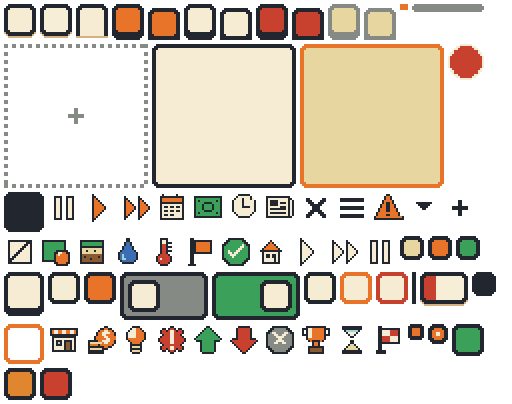
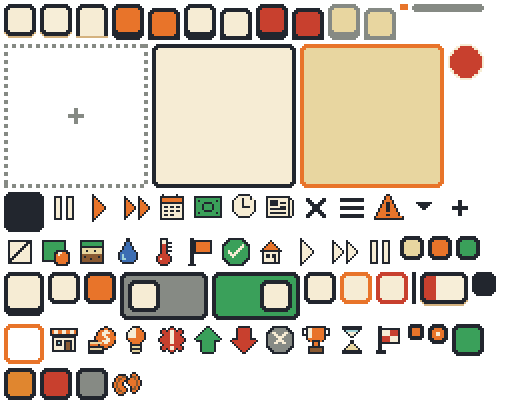
art: Bankrupt win/loss card and no Keep playing (#289)

Changed region(s): [[0.125, 0.8911, 0.2812, 1.0]]

diff --git a/art/tools/ui_views.py b/art/tools/ui_views.py
@@ -12,7 +12,8 @@ writes docs/art/m2-views-preview.png.
   value tip in `card_float`.
 - #178 win/loss card: one `card` layout; the headline band `end_band_<outcome>` and emblem `icon_end_<outcome>`
   (shown at 2x, 32 pt) change per outcome. Goal rows use `icon_goal` and `icon_goal_miss`.
-  New game is `btn_primary`; Keep playing is an optional `btn_secondary` the client can hide."""
+  New game is `btn_primary` and is the only button (#243). Bankrupt (#289) uses a grey band and a cracked
+  coin; its score row can be hidden (#287)."""
 
 import json
 import math
@@ -201,11 +202,30 @@ VIEW_ICON = {  # 16x16, same keys as ui_concept.ICON plus 'm' = MGREY
         "..#####.........",
         "................",
     ],
+    "end_bankrupt": [
+        "................",
+        "................",
+        "..........##....",
+        "...####..#oo#...",
+        "..#oonn#.#nno#..",
+        ".#onnoo##oono#..",
+        ".#onoo##oooono#.",
+        "#onoo#.#oooono#.",
+        "#onoo#..#ooono#.",
+        "#onooo#..#ono#..",
+        ".#onooo#.#nno#..",
+        ".#onnoo#.#oo#...",
+        "..#oon#...##....",
+        "...###..........",
+        "................",
+        "................",
+    ],
 }
 OUTCOMES = {  # result_name: (key, band colour, headline)
     "VICTORY": ("win", "GREEN", "Goals achieved"),
     "DEFEAT_DEADLINE": ("time", "AMBER", "Out of time"),
     "DEFEAT_AI_WON": ("rival", "RED", "A rival got there first"),
+    "DEFEAT_BANKRUPT": ("bankrupt", "MGREY", "Bankrupt"),
 }
 KEYS = dict(KEY, m="MGREY")
 
@@ -263,11 +283,13 @@ def frames():
     f["plate_level"] = (level_badge(), [4, 4, 4, 4])
     f["plate_pulse"] = (pulse_ring(), [6, 6, 6, 6])
     for k in VIEW_ICON:
-        f["icon_" + k] = (vicon(k), None)
+        if k != "end_bankrupt":  # added later (#289); appended below so earlier frames keep their place
+            f["icon_" + k] = (vicon(k), None)
     f["chart_dot"] = (dot(), None)
     f["chart_dot_sel"] = (dot(True), None)
     for k, col, _ in OUTCOMES.values():
         f["end_band_" + k] = (band(col), [6, 6, 6, 6])
+    f["icon_end_bankrupt"] = (vicon("end_bankrupt"), None)
     return f
 
 
@@ -302,7 +324,7 @@ def short(v):
 
 
 def preview(S=2):
-    W, H = 1180, 1180
+    W, H = 1180, 1130
     im = Image.new("RGBA", (W * S, H * S), rgb("DGREY"))
     d = ImageDraw.Draw(im)
     fr = {k: v for k, v in frames().items()}
@@ -467,7 +489,7 @@ def preview(S=2):
     head(
         20,
         y1,
-        "#178 Win/loss card: one layout, three outcomes; optional Keep playing shown hidden on the third",
+        "#178/#289 Win/loss card: one layout, four outcomes; New game only; score row hidden on Bankrupt",
     )
     goals = [
         ("Reach $50M net worth", True),
@@ -475,16 +497,17 @@ def preview(S=2):
         ("Market share 30% in Bread", None),
     ]
     for c, (res, (k, col, hl)) in enumerate(OUTCOMES.items()):
-        x, y, w, h = 20 + c * 386, y1 + 28, 370, 500
+        x, y, w, h = 20 + c * 290, y1 + 28, 280, 440
         put(nine(card(16, 16), [6, 6, 6, 7], w, h), x, y)
         put(nine(fr["end_band_" + k][0], [6, 6, 6, 6], w - 24, 96), x + 12, y + 12)
         put(fr["icon_end_" + k][0], x + w / 2 - 16, y + 22, 2)
         txt(x + w / 2, y + 80, hl, "CREAM", 17, True, "mm")
         stats = [
-            ("Final score", "8,420" if c == 0 else ("3,115" if c == 1 else "4,960")),
+            ("Final score", ["8,420", "3,115", "4,960", None][c]),
             ("Years played", "12" if c != 1 else "20"),
             ("Difficulty", "120"),
         ]
+        stats = [r for r in stats if r[1] is not None]  # score row is hideable
         for i, (a, b) in enumerate(stats):
             yy = y + 126 + i * 28
             txt(x + 24, yy, a, "MGREY", 12, False)
@@ -505,11 +528,8 @@ def preview(S=2):
             )
             txt(x + 48, yy, g, "INK" if met else "MGREY", 12, False)
         bw = w - 48
-        put(nine(button(16, 16, "primary"), [6, 6, 6, 8], bw, 46), x + 24, y + h - 130)
-        txt(x + w / 2, y + h - 107, "New game", "CREAM", 14, True, "mm")
-        if c != 2:
-            put(nine(button(16, 16, "secondary"), [6, 6, 6, 8], bw, 46), x + 24, y + h - 72)
-            txt(x + w / 2, y + h - 49, "Keep playing (optional)", "INK", 14, True, "mm")
+        put(nine(button(16, 16, "primary"), [6, 6, 6, 8], bw, 46), x + 24, y + h - 72)
+        txt(x + w / 2, y + h - 49, "New game", "CREAM", 14, True, "mm")
     im.convert("RGB").save(P("docs", "art", "m2-views-preview.png"), optimize=True)
 
 

diff --git a/art/README.md b/art/README.md
@@ -113,6 +113,8 @@ frames to `ui_atlas` (now 71 frames, earlier frames unchanged). Preview: `docs/a
 - **Charts (#178):** style in `art/charts.json`: one orange 2 pt line, sand grid, ink zero line when the
   range crosses 0, short money labels, `chart_dot` on the last point, `chart_dot_sel` and a `card_float`
   tip on the tapped point; a single point is a dot alone.
-- **Win/loss card (#178):** one `card` layout; `end_band_win|time|rival` (green, amber, red) and
-  `icon_end_win|time|rival` (shown at 2×) change per outcome. Goal rows use `icon_goal` and
-  `icon_goal_miss`, with labels from `q_goals`; difficulty is a plain rating (no %). New game is `btn_primary`; Keep playing is an optional `btn_secondary` the client can hide.
+- **Win/loss card (#178, #289):** one `card` layout; `end_band_win|time|rival|bankrupt` (green, amber, red,
+  grey) and `icon_end_win|time|rival|bankrupt` (shown at 2×) change per outcome (`VICTORY`, `DEFEAT_DEADLINE`,
+  `DEFEAT_AI_WON`, `DEFEAT_BANKRUPT`). Goal rows use `icon_goal` and `icon_goal_miss`, with labels from `q_goals`;
+  difficulty is a plain rating (no %). The score row can be hidden (Bankrupt, #287). New game (`btn_primary`)
+  is the only button: the native game has no Keep playing (#243).
